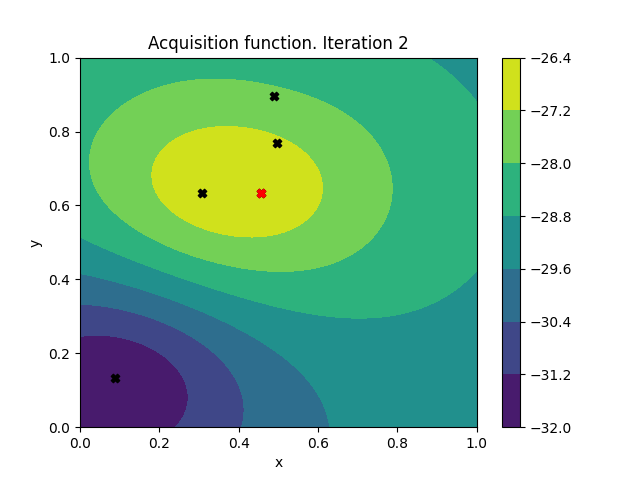
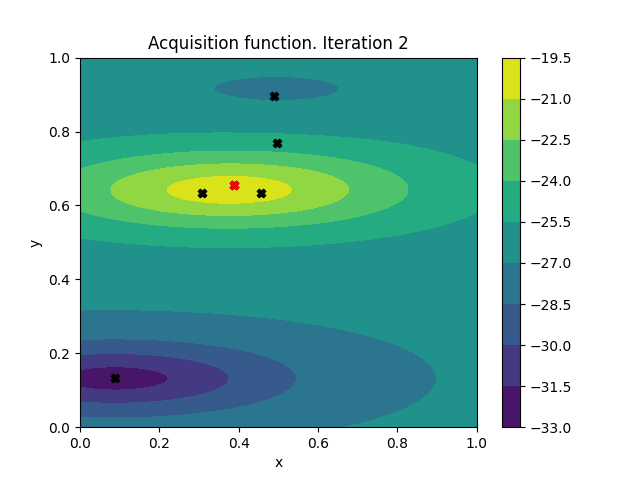
Adapted visualization to all methods

diff --git a/experiments/toy/vanilla_BO/bayes_opt_toy.py b/experiments/toy/vanilla_BO/bayes_opt_toy.py
@@ -212,7 +212,7 @@ def meshgrid_to_2d_grid(X, Y):
         final_piece = torch.cat((final_piece,torch.vstack((X[i+1,0].repeat(len(X[0])),Y[0])).T))
     return final_piece
 
-def plot_acq_fun_model_posterior(acq_fun, obs_input, model, bounds, fun_name, iteration):
+def plot_acq_fun_model_posterior(acq_fun, obs_input, model, bounds, fun_name, iteration, method_name):
     grid_x = torch.linspace(0.0, 1.0, 100)
     grid_y = torch.linspace(0.0, 1.0, 100)
     X, Y = torch.meshgrid(grid_x, grid_y)
@@ -226,42 +226,42 @@ def plot_acq_fun_model_posterior(acq_fun, obs_input, model, bounds, fun_name, it
     grid_dim = len(grid_x)
     cp = ax.contourf(grid[:,0].reshape(grid_dim, grid_dim), grid[:,1].reshape(grid_dim, grid_dim), function_grid.reshape(grid_dim, grid_dim))
     fig.colorbar(cp) # Add a colorbar to a plot
-    ax.set_title('Objective function. Iteration ' + str(iteration))
+    ax.set_title('Objective function. Iteration ' + str(iteration) + '. ' + method_name)
     ax.set_xlabel('x')
     ax.set_ylabel('y')
     plt.scatter(obs_input[:,0], obs_input[:,1], color="black", marker="X")
     plt.scatter(obs_input[len(obs_input)-1,0], obs_input[len(obs_input)-1,1], color="red", marker="X")
-    plt.savefig('./images/obj_fun_' + str(iteration) + '.png')
-    plt.show()
+    plt.savefig('./images/obj_fun_' + str(iteration) + '_' + method_name + '.png')
+    #plt.show()
     plt.clf()
     plt.close()
 
     fig,ax=plt.subplots(1,1)
     cp = ax.contourf(grid[:,0].reshape(grid_dim, grid_dim), grid[:,1].reshape(grid_dim, grid_dim), posterior_grid.reshape(grid_dim, grid_dim))
-    ax.set_title('Mean model posterior. Iteration ' + str(iteration))
+    ax.set_title('Mean model posterior. Iteration ' + str(iteration) + '. ' + method_name)
     ax.set_xlabel('x')
     ax.set_ylabel('y')
     plt.scatter(obs_input[:,0], obs_input[:,1], color="black", marker="X")
     plt.scatter(obs_input[len(obs_input)-1,0], obs_input[len(obs_input)-1,1], color="red", marker="X")
-    plt.savefig('./images/mean_model_posterior_' + str(iteration) + '.png')
-    plt.show()
+    plt.savefig('./images/mean_model_posterior_' + str(iteration) + '_' + method_name + '.png')
+    #plt.show()
     plt.clf()
     plt.close()
     
     fig,ax=plt.subplots(1,1)
     cp = ax.contourf(grid[:,0].reshape(grid_dim, grid_dim), grid[:,1].reshape(grid_dim, grid_dim), acq_fun_grid.reshape(grid_dim, grid_dim))
     fig.colorbar(cp) # Add a colorbar to a plot
-    ax.set_title('Acquisition function. Iteration ' + str(iteration))
+    ax.set_title('Acquisition function. Iteration ' + str(iteration) + '. ' + method_name)
     ax.set_xlabel('x')
     ax.set_ylabel('y')
     plt.scatter(obs_input[:,0], obs_input[:,1], color="black", marker="X")
     plt.scatter(obs_input[len(obs_input)-1,0], obs_input[len(obs_input)-1,1], color="red", marker="X")
-    plt.savefig('./images/acq_fun_' + str(iteration) + '.png')
-    plt.show()
+    plt.savefig('./images/acq_fun_' + str(iteration) + '_' + method_name + '.png')
+    #plt.show()
     plt.clf()
     plt.close()
 
-def perform_BO_iteration(X, Y, name_obj_fun, bounds, seed, normalize=False, wrapped=False, penalize=False, apply_simplex=False, plot_acq_model=True):
+def perform_BO_iteration(X, Y, name_obj_fun, bounds, seed, method_name, normalize=False, wrapped=False, penalize=False, apply_simplex=False, plot_acq_model=True):
 
     if not apply_simplex:
         gp = SingleTaskGP(X, Y)
@@ -282,10 +282,10 @@ def perform_BO_iteration(X, Y, name_obj_fun, bounds, seed, normalize=False, wrap
         fit_gpytorch_model(mll)
         gpytorch.settings.cholesky_jitter._global_float_value = 1e-06 #Restoring.
     
-    UCB = UpperConfidenceBound(gp, beta=0.2, maximize=False)
+    UCB = UpperConfidenceBound(gp, beta=0.5, maximize=False)
     bounds_cube = torch.stack([torch.zeros(X.shape[1]), torch.ones(X.shape[1])])
     if plot_acq_model:
-        plot_acq_fun_model_posterior(UCB, X, gp, bounds, name_obj_fun, seed+1)
+        plot_acq_fun_model_posterior(UCB, X, gp, bounds, name_obj_fun, seed+1, method_name)
     new_X, acq_value = optimize_acqf(
             UCB, bounds=bounds_cube, q=1, num_restarts=5, raw_samples=20,
     )
@@ -312,7 +312,7 @@ def perform_wrapper_rounding_experiment(seed : int, initial_design_size: int, bu
     X, Y = get_initial_results(initial_design_size, name_obj_fun, bounds)
 
     for i in range(budget):
-        X, Y = perform_BO_iteration(X, Y, name_obj_fun, bounds, wrapped=True)
+        X, Y = perform_BO_iteration(X, Y, name_obj_fun, bounds, i, "Wrapper rounding", wrapped=True)
 
     return Y
 
@@ -322,7 +322,7 @@ def perform_wrapper_penalizing_experiment(seed : int, initial_design_size: int, 
     X, Y = get_initial_results(initial_design_size, name_obj_fun, bounds)
 
     for i in range(budget):
-        X, Y = perform_BO_iteration(X, Y, name_obj_fun, bounds, penalize=True)
+        X, Y = perform_BO_iteration(X, Y, name_obj_fun, bounds, i, "Wrapper penalizing", penalize=True)
 
     return Y
 
@@ -333,7 +333,7 @@ def perform_simplex_transformation_experiment(seed : int, initial_design_size: i
     X, Y = get_initial_results(initial_design_size, name_obj_fun, bounds)
 
     for i in range(budget):
-        X, Y = perform_BO_iteration(X, Y, name_obj_fun, bounds, apply_simplex=True)
+        X, Y = perform_BO_iteration(X, Y, name_obj_fun, bounds, i, "Simplex transformation", apply_simplex=True)
 
     return Y
 
@@ -342,7 +342,7 @@ def perform_BO_experiment(seed : int, initial_design_size: int, budget: int, nam
     torch.random.manual_seed(seed)
     X, Y = get_initial_results(initial_design_size, name_obj_fun, bounds)
     for i in range(budget):
-        X, Y = perform_BO_iteration(X, Y, name_obj_fun, bounds, i)
+        X, Y = perform_BO_iteration(X, Y, name_obj_fun, bounds, i, "Vanilla BO")
 
     return Y
 
@@ -362,7 +362,7 @@ if __name__ == '__main__' :
     #branin(torch.tensor([9.42478, 2.475]))
     total_exps = 1
     initial_design_size = 5
-    budget = 20
+    budget = 10
     n_methods = 5
     name_obj_fun = 'branin'
     bounds = torch.stack([torch.tensor([-5,0]), torch.tensor([10,15])])
